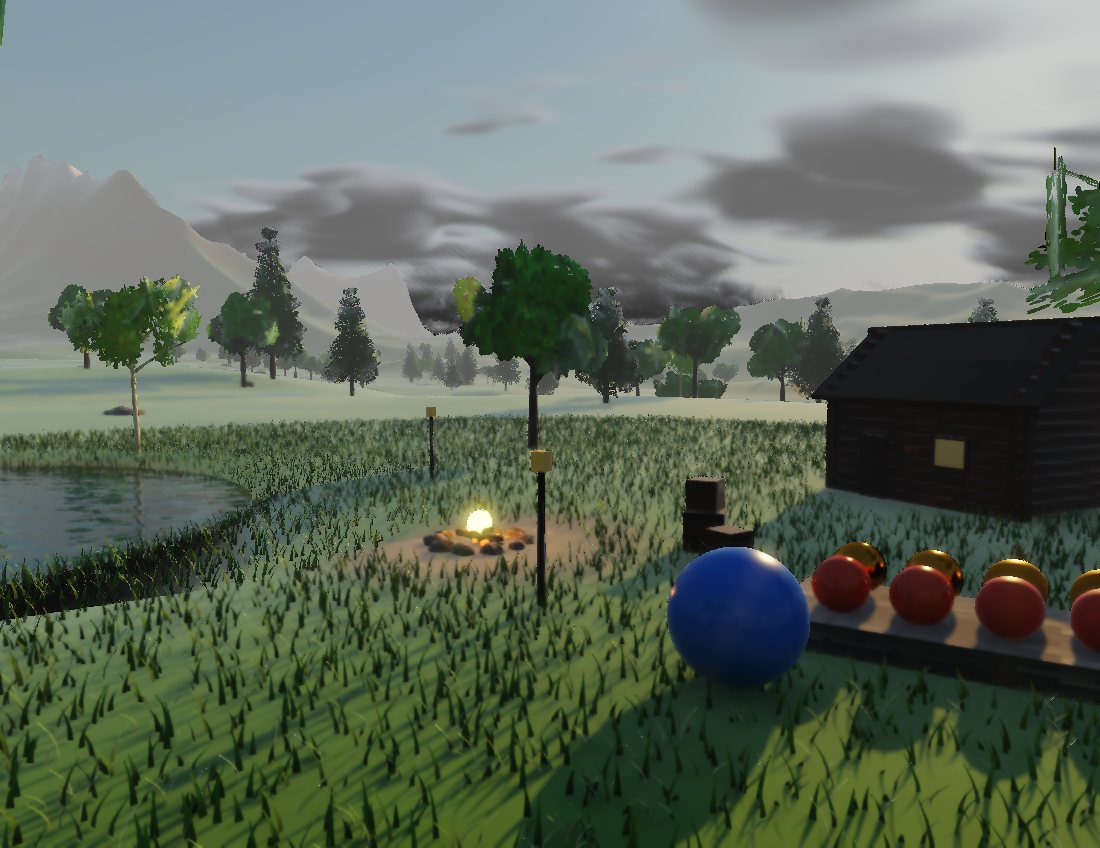
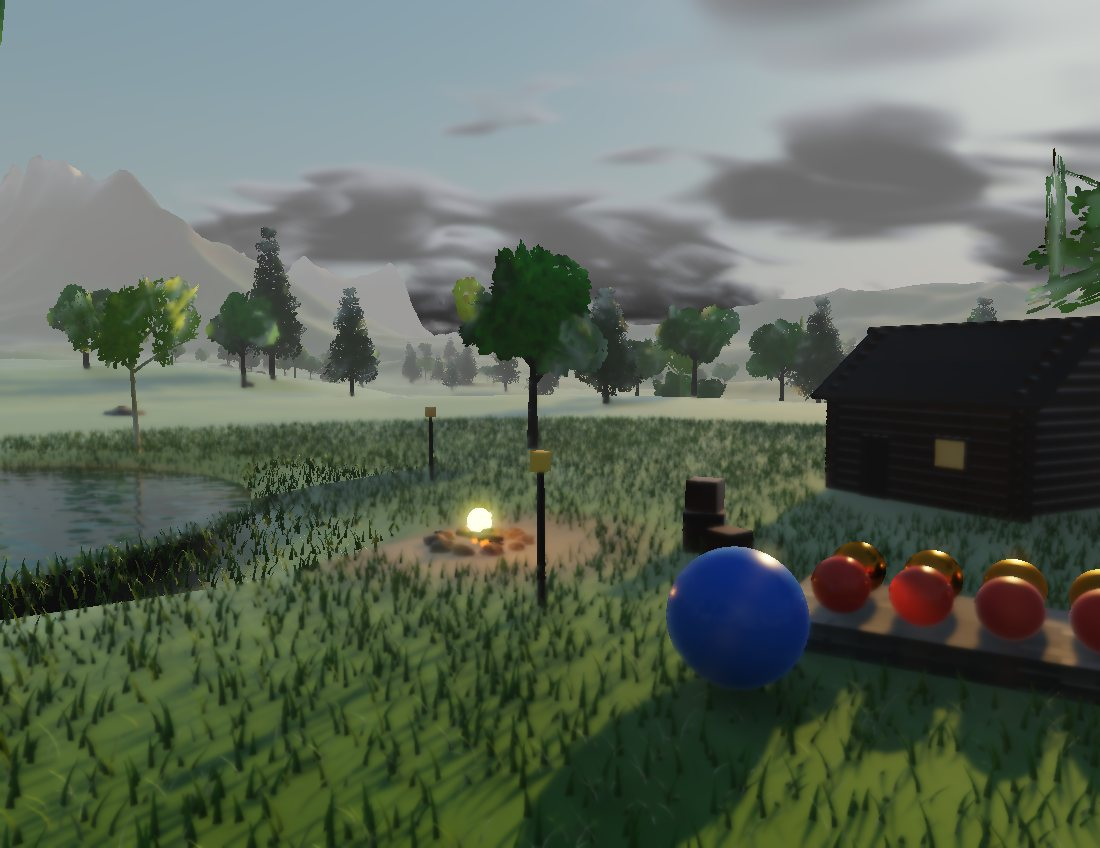
Sky, Sun & Light: temporal accumulation of shadow and bounce terms, steadier anti-aliasing

diff --git a/sandbox/sky-and-light.html b/sandbox/sky-and-light.html
@@ -210,7 +210,7 @@ const v3s = hex => { const c = lin(hex); return `vec3(${c.r.toFixed(4)}, ${c.g.t
 const U = {
   uNodes: { value: nodeTex }, uTris: { value: triTex }, uAttr: { value: attrTex }, uInst: { value: instTex },
   tBark: { value: barkTex }, tBirch: { value: birchTex }, tLeafO: { value: leafO }, tLeafP: { value: leafP }, tLeafB: { value: leafB }, tRock: { value: rockTex }, tWood: { value: woodTex }, tStone: { value: stoneTex }, tGround: { value: groundTex },
-  uTlasRoot: { value: tlasRoot }, uFrame: { value: 0 }, uNSph: { value: NSPH }, uFogD: { value: 0.0015 }, uSunSize: { value: 0.27 * Math.PI / 180 }, uMoonSize: { value: 0.3 * Math.PI / 180 }, uShadowK: { value: 1 }, uGiK: { value: 4 }, uNoiseShift: { value: 0 }, uJitter: { value: new THREE.Vector2() },
+  uTlasRoot: { value: tlasRoot }, uFrame: { value: 0 }, uNSph: { value: NSPH }, uFogD: { value: 0.0015 }, uSunSize: { value: 0.27 * Math.PI / 180 }, uMoonSize: { value: 0.3 * Math.PI / 180 }, uShadowK: { value: 2 }, uGiK: { value: 4 }, uNoiseShift: { value: 0 }, uJitter: { value: new THREE.Vector2() },
   uCamPos: { value: new THREE.Vector3() }, uInvPV: { value: new THREE.Matrix4() }, uSunDir: { value: sunDir }, uSunCol: { value: new THREE.Vector3() }, uMoonDir: { value: moonDir }, uMoonCol: { value: new THREE.Vector3() }, uFogCol: { value: new THREE.Vector3() }, uSkyZen: { value: new THREE.Vector3() }, uSkyHor: { value: new THREE.Vector3() },
   uBetaR: { value: new THREE.Vector3() }, uBetaM: { value: new THREE.Vector3() }, uSunE: { value: 0 }, uSunfade: { value: 1 }, uMieG: { value: 0.8 }, uSunCos: { value: 1 }, uNight: { value: 1 }, uSkyOn: { value: 1 }, uBounceOn: { value: 1 }, uRes: { value: new THREE.Vector2(1, 1) }, uLoRes: { value: new THREE.Vector2(1, 1) },
   uMatA: { value: matA }, uMatB: { value: matB }, uMatC: { value: matC }, uSphA: { value: sphA }, uSphB: { value: sphB }
@@ -408,6 +408,7 @@ const LAKE: vec2f = vec2f(${LAKE.x.toFixed(1)}, ${LAKE.z.toFixed(1)});
 const LAKE_R: f32 = ${LAKE_R.toFixed(1)};
 const FIRE: vec2f = vec2f(${FIRE.x.toFixed(1)}, ${FIRE.z.toFixed(1)});
 fn ign(px: vec2f) -> f32 { return fract(52.9829189 * fract(0.06711056 * px.x + 0.00583715 * px.y) + P.noiseShift); }
+fn ign0(px: vec2f) -> f32 { return fract(52.9829189 * fract(0.06711056 * px.x + 0.00583715 * px.y)); }
 fn h21(p: vec2f) -> f32 { return fract(sin(dot(p, vec2f(127.1, 311.7))) * 43758.5453); }
 fn vn(p: vec2f) -> f32 { let i = floor(p); var f = fract(p); f = f * f * (3.0 - 2.0 * f); return mix(mix(h21(i), h21(i + vec2f(1.0, 0.0)), f.x), mix(h21(i + vec2f(0.0, 1.0)), h21(i + vec2f(1.0, 1.0)), f.x), f.y); }
 fn fb3(p: vec2f) -> f32 { return (0.5 * vn(p) + 0.25 * vn(p * 2.03 + 7.0) + 0.125 * vn(p * 4.1 + 3.0)) / 0.875; }
@@ -511,28 +512,39 @@ const WG_SHADOW = WG_COMMON + `
   let A = textureLoad(gA, fp, 0); if (A.w < 0.0) { textureStore(oV, px, vec4f(1.0, 1.0, 0.0, 0.0)); return; } let p = A.xyz; let n = textureLoad(gB, fp, 0).xyz; let po = p + n * 3e-3; let rot = ign(vec2f(px));
   var sv = 1.0; if (dot(P.sunCol.xyz, P.sunCol.xyz) > 0.0) { sv = 0.0; if (dot(n, P.sunDir.xyz) > -0.1) { for (var k = 0; k < 8; k++) { if (k >= P.shadowK) { break; } let l = coneK(P.sunDir.xyz, P.sunSize, k, P.shadowK, rot); if (!occluded(po, l, 1e9)) { sv += 1.0; } } sv /= f32(P.shadowK); } }
   var mv = 1.0; if (dot(P.moonCol.xyz, P.moonCol.xyz) > 0.0) { mv = 0.0; let l = coneK(P.moonDir.xyz, P.moonSize, 0, 1, rot); if (dot(n, l) > 0.0 && !occluded(po, l, 1e9)) { mv = 1.0; } }
-  textureStore(oV, px, vec4f(sv, mv, 0.0, 1.0)); }`;
+  textureStore(oV, px, vec4f(sv, mv, 0.0, A.w)); }`;
 const WG_GI = WG_COMMON + `
 @group(1) @binding(0) var gA: texture_2d<f32>; @group(1) @binding(1) var gB: texture_2d<f32>; @group(1) @binding(2) var oG: texture_storage_2d<rgba16float, write>;
 @compute @workgroup_size(8, 8) fn main(@builtin(global_invocation_id) gid: vec3u) { let px = vec2i(gid.xy); if (f32(px.x) >= P.giRes.x || f32(px.y) >= P.giRes.y) { return; } let fp = min(px * P.giStride, vec2i(P.res) - 1);
   let A = textureLoad(gA, fp, 0); if (A.w < 0.0) { textureStore(oG, px, vec4f(0.0)); return; } let p = A.xyz; let n = textureLoad(gB, fp, 0).xyz; let po = p + n * 3e-3; let rot = ign(vec2f(px)) + 0.37;
   var E = vec3f(0.0); for (var k = 0; k < 8; k++) { if (k >= P.giK) { break; } let dd = cosK(n, k, P.giK, rot); let H = trace(po, dd, 1e9, false);
     if (!H.hit) { E += skyRad(dd, false) * P.skyOn; } else if (P.bounceOn > 0.5) { let S = hitInfo(po, dd, H); E += bounceShade(S, -dd, H.t + A.w, rot + f32(k) * 0.13); } }
-  textureStore(oG, px, vec4f(E * PI / f32(P.giK), 1.0)); }`;
+  textureStore(oG, px, vec4f(E * PI / f32(P.giK), A.w)); }`;
 const WG_BLUR = WG_COMMON + `
 struct BlurP { dir: vec2f, stride: f32, size: f32, res: vec2f, pad: vec2f };
 @group(1) @binding(0) var gA: texture_2d<f32>; @group(1) @binding(1) var gB: texture_2d<f32>; @group(1) @binding(2) var tIn: texture_2d<f32>; @group(1) @binding(3) var oOut: texture_storage_2d<rgba16float, write>; @group(1) @binding(4) var<uniform> B: BlurP;
 @compute @workgroup_size(8, 8) fn main(@builtin(global_invocation_id) gid: vec3u) { let px = vec2i(gid.xy); if (f32(px.x) >= B.res.x || f32(px.y) >= B.res.y) { return; } let st = i32(B.stride); let full = vec2i(P.res) - 1;
   let A0 = textureLoad(gA, min(px * st, full), 0); let c0 = textureLoad(tIn, px, 0); if (A0.w < 0.0) { textureStore(oOut, px, c0); return; } let n0 = textureLoad(gB, min(px * st, full), 0).xyz; let z0 = A0.w; var sum = vec4f(0.0); var ws = 0.0;
-  for (var i = -3; i <= 3; i++) { let q = px + vec2i(B.dir) * i; if (q.x < 0 || q.y < 0 || f32(q.x) >= B.res.x || f32(q.y) >= B.res.y) { continue; } let A = textureLoad(gA, min(q * st, full), 0); if (A.w < 0.0) { continue; } let n = textureLoad(gB, min(q * st, full), 0).xyz;
+  let rad = select(0, 3, B.size > 0.5); for (var i = -3; i <= 3; i++) { if (abs(i) > rad) { continue; } let q = px + vec2i(B.dir) * i; if (q.x < 0 || q.y < 0 || f32(q.x) >= B.res.x || f32(q.y) >= B.res.y) { continue; } let A = textureLoad(gA, min(q * st, full), 0); if (A.w < 0.0) { continue; } let n = textureLoad(gB, min(q * st, full), 0).xyz;
     let w = exp(-abs(A.w - z0) / (0.03 * z0 + 0.05)) * pow(max(dot(n, n0), 0.0), 12.0) * exp(-f32(i * i) / 5.0); sum += textureLoad(tIn, q, 0) * w; ws += w; }
   textureStore(oOut, px, select(c0, sum / ws, ws > 0.0)); }`;
+// temporal accumulation of a small answer: reproject last frame's, keep it where the surface is the same, blend a little of the new
+const WG_ACC = WG_COMMON + `
+struct AP { stride: f32, blend: f32, res: vec2f };
+@group(1) @binding(0) var gA: texture_2d<f32>; @group(1) @binding(1) var tRaw: texture_2d<f32>; @group(1) @binding(2) var tHist: texture_2d<f32>; @group(1) @binding(3) var oOut: texture_storage_2d<rgba16float, write>; @group(1) @binding(4) var<uniform> AC: AP;
+@compute @workgroup_size(8, 8) fn main(@builtin(global_invocation_id) gid: vec3u) { let px = vec2i(gid.xy); if (f32(px.x) >= AC.res.x || f32(px.y) >= AC.res.y) { return; } let st = i32(AC.stride); let full = vec2i(P.res) - 1;
+  let A = textureLoad(gA, min(px * st, full), 0); let cur = textureLoad(tRaw, px, 0); if (A.w < 0.0) { textureStore(oOut, px, cur); return; }
+  let c4 = P.prevPV * vec4f(A.xyz, 1.0); var out = cur;
+  if (c4.w > 0.0) { let uv = vec2f(c4.x / c4.w * 0.5 + 0.5, 0.5 - c4.y / c4.w * 0.5); if (uv.x > 0.0 && uv.x < 1.0 && uv.y > 0.0 && uv.y < 1.0) { let hc = uv * AC.res - 0.5; let h0 = vec2i(floor(hc)); let f = fract(hc); var sum = vec4f(0.0); var ws = 0.0; let lim = vec2i(AC.res) - 1;
+      for (var j = 0; j < 4; j++) { let q = clamp(h0 + vec2i(j & 1, j >> 1), vec2i(0), lim); let h = textureLoad(tHist, q, 0); if (h.a < 0.0 || abs(h.a - A.w) > 0.05 * A.w + 0.15) { continue; } let w = select(select(select(f.x * f.y, (1.0 - f.x) * f.y, j == 2), f.x * (1.0 - f.y), j == 1), (1.0 - f.x) * (1.0 - f.y), j == 0); sum += h * w; ws += w; }
+      if (ws > 0.3) { let hist = sum / ws; out = vec4f(mix(hist.rgb, cur.rgb, AC.blend), cur.a); } } }
+  textureStore(oOut, px, out); }`;
 const WG_REFL = WG_COMMON + `
 @group(1) @binding(0) var gA: texture_2d<f32>; @group(1) @binding(1) var gB: texture_2d<f32>; @group(1) @binding(2) var oR: texture_storage_2d<rgba16float, write>;
 @compute @workgroup_size(8, 8) fn main(@builtin(global_invocation_id) gid: vec3u) { let px = vec2i(gid.xy); if (f32(px.x) >= P.res.x || f32(px.y) >= P.res.y) { return; }
   let A = textureLoad(gA, px, 0); let Bv = textureLoad(gB, px, 0); if (A.w < 0.0 || Bv.w >= 0.45) { textureStore(oR, px, vec4f(0.0)); return; } let p = A.xyz; let n = Bv.xyz; let v = normalize(P.camPos.xyz - p); let r = reflect(-v, n); if (dot(r, n) <= 0.0) { textureStore(oR, px, vec4f(0.0)); return; }
   let po = p + n * 3e-3; let H = trace(po, r, 1e9, false); var col: vec3f;
-  if (!H.hit) { col = skyRad(r, true); } else { let S = hitInfo(po, r, H); col = bounceShade(S, -r, H.t + A.w, ign(vec2f(px))); col = mix(P.fogCol.xyz, col, exp(-P.fogD * H.t)); }
+  if (!H.hit) { col = skyRad(r, true); } else { let S = hitInfo(po, r, H); col = bounceShade(S, -r, H.t + A.w, ign0(vec2f(px))); col = mix(P.fogCol.xyz, col, exp(-P.fogD * H.t)); }
   textureStore(oR, px, vec4f(col, 1.0)); }`;
 const WG_COMP = WG_COMMON + `
 @group(1) @binding(0) var gA: texture_2d<f32>; @group(1) @binding(1) var gB: texture_2d<f32>; @group(1) @binding(2) var gC: texture_2d<f32>; @group(1) @binding(3) var gD: texture_2d<f32>; @group(1) @binding(4) var tV: texture_2d<f32>; @group(1) @binding(5) var tG: texture_2d<f32>; @group(1) @binding(6) var tR: texture_2d<f32>; @group(1) @binding(7) var oCur: texture_storage_2d<rgba16float, write>;
@@ -551,15 +563,15 @@ fn upsampleG(px: vec2i, A: vec4f, n: vec3f) -> vec4f { let st = P.giStride; let 
     col = emis;
     let ndl = max(dot(n, P.sunDir.xyz), 0.0); col += P.sunCol.xyz * sunVis * ndl * (diffuse + specBRDF(n, v, P.sunDir.xyz, rough, F0));
     let ndm = max(dot(n, P.moonDir.xyz), 0.0); col += P.moonCol.xyz * moonVis * ndm * diffuse;
-    col += sphereLights(p + n * 3e-3, n, v, diffuse, F0, rough, ign(vec2f(px)), 1, 24.0);
+    col += sphereLights(p + n * 3e-3, n, v, diffuse, F0, rough, ign0(vec2f(px)), 1, 24.0);
     col += diffuse * E;
     let R = textureLoad(tR, px, 0); let open = clamp(dot(E, vec3f(0.33)) / max(dot(skyAmb(n), vec3f(0.33)), 1e-3), 0.0, 1.0);
     let specAmb = F * mix(P.skyHor.xyz, P.skyZen.xyz, reflect(-v, n).y * 0.5 + 0.5) * P.skyOn * open;
     let sharp = select(0.0, 1.0 - smoothstep(0.12, 0.45, rough), R.a > 0.5); col += mix(specAmb, F * R.rgb, sharp) * select(vec3f(1.0), alb, metal > 0.5);
     if (P.matB[i32(D.w)].w == 3.0) { // water: what the mirror does not take goes down into it, and comes back tinted by how far it went
       let Fw = 0.02 + 0.98 * pow(1.0 - ndv, 5.0); let rd = refract(-v, n, 1.0 / 1.33); var under = vec3f(0.01, 0.06, 0.08);
-      if (dot(rd, rd) > 0.0) { let H = trace(p - n * 3e-3, rd, 40.0, false); if (H.hit) { let S = hitInfo(p - n * 3e-3, rd, H); let bottom = bounceShade(S, -rd, H.t + A.w, ign(vec2f(px))); let ab = exp(-vec3f(0.55, 0.22, 0.14) * H.t * 1.6); under = bottom * ab + vec3f(0.02, 0.10, 0.12) * (1.0 - ab) * (P.skyZen.xyz * 3.0 + P.sunCol.xyz * 0.02); } }
-      col = emis + sunVis * ndl * P.sunCol.xyz * specBRDF(n, v, P.sunDir.xyz, rough, vec3f(0.02)) + sphereLights(p + n * 3e-3, n, v, vec3f(0.0), vec3f(0.02), rough, ign(vec2f(px)), 1, 24.0) + Fw * select(specAmb, R.rgb, R.a > 0.5) + (1.0 - Fw) * under; }
+      if (dot(rd, rd) > 0.0) { let H = trace(p - n * 3e-3, rd, 40.0, false); if (H.hit) { let S = hitInfo(p - n * 3e-3, rd, H); let bottom = bounceShade(S, -rd, H.t + A.w, ign0(vec2f(px))); let ab = exp(-vec3f(0.55, 0.22, 0.14) * H.t * 1.6); under = bottom * ab + vec3f(0.02, 0.10, 0.12) * (1.0 - ab) * (P.skyZen.xyz * 3.0 + P.sunCol.xyz * 0.02); } }
+      col = emis + sunVis * ndl * P.sunCol.xyz * specBRDF(n, v, P.sunDir.xyz, rough, vec3f(0.02)) + sphereLights(p + n * 3e-3, n, v, vec3f(0.0), vec3f(0.02), rough, ign0(vec2f(px)), 1, 24.0) + Fw * select(specAmb, R.rgb, R.a > 0.5) + (1.0 - Fw) * under; }
     // haze, and a mist that pools low in the valley
     let hc = max(P.camPos.y, 0.0); let hp = max(p.y, 0.0); let dh = hp - hc; let mistInt = select(exp(-hc / 6.0) * (1.0 - exp(-dh / 6.0)) / (dh / 6.0), exp(-hc / 6.0), abs(dh) < 0.01);
     col = mix(P.fogCol.xyz, col, exp(-(P.fogD + P.mist * mistInt) * A.w));
@@ -573,9 +585,9 @@ const WG_TAA = WG_COMMON + `
   var mn = cur.rgb; var mx = cur.rgb; for (var j = -1; j <= 1; j++) { for (var i = -1; i <= 1; i++) { let c = textureLoad(tCur, clamp(px + vec2i(i, j), vec2i(0), full), 0).rgb; mn = min(mn, c); mx = max(mx, c); } }
   let wp = select(A.xyz, P.camPos.xyz + A.xyz * 20000.0, A.w < 0.0); let c4 = P.prevPV * vec4f(wp, 1.0); var hist = cur; var ok = false;
   if (c4.w > 0.0) { let uv = vec2f(c4.x / c4.w * 0.5 + 0.5, 0.5 - c4.y / c4.w * 0.5); if (uv.x > 0.0 && uv.x < 1.0 && uv.y > 0.0 && uv.y < 1.0) { let hc = uv * P.res - 0.5; let h0 = vec2i(floor(hc)); let f = fract(hc); var sum = vec4f(0.0);
-      for (var j = 0; j < 4; j++) { let q = clamp(h0 + vec2i(j & 1, j >> 1), vec2i(0), full); let w = select(select(select(f.x * f.y, (1.0 - f.x) * f.y, j == 2), f.x * (1.0 - f.y), j == 1), (1.0 - f.x) * (1.0 - f.y), j == 0); sum += textureLoad(tHist, q, 0) * w; }
-      hist = sum; ok = (A.w < 0.0 && hist.a < 0.0) || (A.w > 0.0 && abs(hist.a - A.w) < 0.06 * A.w + 0.1); } }
-  var col = cur.rgb; if (ok) { let h = clamp(hist.rgb, mn - 0.02, mx + 0.02); col = mix(h, cur.rgb, P.blend); }
+      var ws = 0.0; for (var j = 0; j < 4; j++) { let q = clamp(h0 + vec2i(j & 1, j >> 1), vec2i(0), full); let h = textureLoad(tHist, q, 0); let same = (A.w < 0.0 && h.a < 0.0) || (A.w > 0.0 && h.a > 0.0 && abs(h.a - A.w) < 0.12 * A.w + 0.2); if (!same) { continue; } let w = select(select(select(f.x * f.y, (1.0 - f.x) * f.y, j == 2), f.x * (1.0 - f.y), j == 1), (1.0 - f.x) * (1.0 - f.y), j == 0); sum += h * w; ws += w; }
+      if (ws > 0.05) { hist = sum / ws; ok = true; } } }
+  var col = cur.rgb; if (ok) { let pad = (mx - mn) * 0.5 + 0.03; let h = clamp(hist.rgb, mn - pad, mx + pad); col = mix(h, cur.rgb, P.blend); }
   textureStore(oAcc, px, vec4f(col, cur.a)); }`;
 const WG_BRIGHT = WG_COMMON + `
 @group(1) @binding(0) var tIn: texture_2d<f32>; @group(1) @binding(1) var oOut: texture_storage_2d<rgba16float, write>;
@@ -614,23 +626,26 @@ async function startWebGPU() {
   const T = (b) => ({ binding: b, visibility: GPUShaderStage.COMPUTE, texture: { sampleType: 'unfilterable-float' } }), W = (b, fmt) => ({ binding: b, visibility: GPUShaderStage.COMPUTE, storageTexture: { access: 'write-only', format: fmt } });
   const layouts = { gbuf: device.createBindGroupLayout({ entries: [W(0, 'rgba32float'), W(1, 'rgba32float'), W(2, 'rgba32float'), W(3, 'rgba32float')] }), shadow: device.createBindGroupLayout({ entries: [T(0), T(1), W(2, 'rgba16float')] }), gi: device.createBindGroupLayout({ entries: [T(0), T(1), W(2, 'rgba16float')] }),
     blur: device.createBindGroupLayout({ entries: [T(0), T(1), T(2), W(3, 'rgba16float'), { binding: 4, visibility: GPUShaderStage.COMPUTE, buffer: { type: 'uniform' } }] }), refl: device.createBindGroupLayout({ entries: [T(0), T(1), W(2, 'rgba16float')] }), comp: device.createBindGroupLayout({ entries: [T(0), T(1), T(2), T(3), T(4), T(5), T(6), W(7, 'rgba16float')] }),
-    taa: device.createBindGroupLayout({ entries: [T(0), T(1), T(2), W(3, 'rgba16float')] }), bright: device.createBindGroupLayout({ entries: [T(0), W(1, 'rgba16float')] }), gauss: device.createBindGroupLayout({ entries: [T(0), W(1, 'rgba16float'), { binding: 2, visibility: GPUShaderStage.COMPUTE, buffer: { type: 'uniform' } }] }) };
+    taa: device.createBindGroupLayout({ entries: [T(0), T(1), T(2), W(3, 'rgba16float')] }), acc: device.createBindGroupLayout({ entries: [T(0), T(1), T(2), W(3, 'rgba16float'), { binding: 4, visibility: GPUShaderStage.COMPUTE, buffer: { type: 'uniform' } }] }), bright: device.createBindGroupLayout({ entries: [T(0), W(1, 'rgba16float')] }), gauss: device.createBindGroupLayout({ entries: [T(0), W(1, 'rgba16float'), { binding: 2, visibility: GPUShaderStage.COMPUTE, buffer: { type: 'uniform' } }] }) };
   const pipe = (code, l1) => device.createComputePipeline({ layout: device.createPipelineLayout({ bindGroupLayouts: [g0Layout, l1] }), compute: { module: device.createShaderModule({ code }), entryPoint: 'main' } });
-  const pipes = { gbuf: pipe(WG_GBUF, layouts.gbuf), shadow: pipe(WG_SHADOW, layouts.shadow), gi: pipe(WG_GI, layouts.gi), blur: pipe(WG_BLUR, layouts.blur), refl: pipe(WG_REFL, layouts.refl), comp: pipe(WG_COMP, layouts.comp), taa: pipe(WG_TAA, layouts.taa), bright: pipe(WG_BRIGHT, layouts.bright), gauss: pipe(WG_GAUSS, layouts.gauss) };
+  const pipes = { gbuf: pipe(WG_GBUF, layouts.gbuf), shadow: pipe(WG_SHADOW, layouts.shadow), gi: pipe(WG_GI, layouts.gi), blur: pipe(WG_BLUR, layouts.blur), refl: pipe(WG_REFL, layouts.refl), comp: pipe(WG_COMP, layouts.comp), taa: pipe(WG_TAA, layouts.taa), acc: pipe(WG_ACC, layouts.acc), bright: pipe(WG_BRIGHT, layouts.bright), gauss: pipe(WG_GAUSS, layouts.gauss) };
   const dispLayout = device.createBindGroupLayout({ entries: [{ binding: 0, visibility: GPUShaderStage.FRAGMENT, texture: {} }, { binding: 1, visibility: GPUShaderStage.FRAGMENT, sampler: {} }, { binding: 2, visibility: GPUShaderStage.FRAGMENT, buffer: { type: 'uniform' } }, { binding: 3, visibility: GPUShaderStage.FRAGMENT, texture: {} }] });
   const dispMod = device.createShaderModule({ code: WG_DISP }); const dispPipe = device.createRenderPipeline({ layout: device.createPipelineLayout({ bindGroupLayouts: [dispLayout] }), vertex: { module: dispMod, entryPoint: 'vs' }, fragment: { module: dispMod, entryPoint: 'fs', targets: [{ format }] }, primitive: { topology: 'triangle-list' } });
   const bDisp = device.createBuffer({ size: 32, usage: GPUBufferUsage.UNIFORM | GPUBufferUsage.COPY_DST }); const dispSamp = device.createSampler({ magFilter: 'linear', minFilter: 'linear' });
-  const blurBufs = [0, 1, 2, 3].map(() => device.createBuffer({ size: 32, usage: GPUBufferUsage.UNIFORM | GPUBufferUsage.COPY_DST })); const gaussBufs = [0, 1].map(() => device.createBuffer({ size: 16, usage: GPUBufferUsage.UNIFORM | GPUBufferUsage.COPY_DST }));
+  const blurBufs = [0, 1, 2, 3].map(() => device.createBuffer({ size: 32, usage: GPUBufferUsage.UNIFORM | GPUBufferUsage.COPY_DST })); const gaussBufs = [0, 1].map(() => device.createBuffer({ size: 16, usage: GPUBufferUsage.UNIFORM | GPUBufferUsage.COPY_DST })); const accBufs = [0, 1].map(() => device.createBuffer({ size: 16, usage: GPUBufferUsage.UNIFORM | GPUBufferUsage.COPY_DST }));
   const st = { w: 0, h: 0, tex: null, groups: null, ss: 2, gs: 4 };
   const mkTex = (w, h, fmt) => device.createTexture({ size: [w, h], format: fmt, usage: GPUTextureUsage.STORAGE_BINDING | GPUTextureUsage.TEXTURE_BINDING });
-  function ensure(w, h, ss, gs) { if (st.w === w && st.h === h && st.ss === ss && st.gs === gs) return; if (st.tex) for (const k in st.tex) st.tex[k].destroy(); st.ss = ss; st.gs = gs; const lw = Math.max(2, Math.ceil(w / ss)), lh = Math.max(2, Math.ceil(h / ss)), qw = Math.max(2, Math.ceil(w / gs)), qh = Math.max(2, Math.ceil(h / gs)), bw = Math.max(2, Math.ceil(w / 4)), bh = Math.max(2, Math.ceil(h / 4));
-    const t = st.tex = { gA: mkTex(w, h, 'rgba32float'), gB: mkTex(w, h, 'rgba32float'), gC: mkTex(w, h, 'rgba32float'), gD: mkTex(w, h, 'rgba32float'), sV: mkTex(lw, lh, 'rgba16float'), sV2: mkTex(lw, lh, 'rgba16float'), gi: mkTex(qw, qh, 'rgba16float'), gi2: mkTex(qw, qh, 'rgba16float'), refl: mkTex(w, h, 'rgba16float'), cur: mkTex(w, h, 'rgba16float'), acc0: mkTex(w, h, 'rgba16float'), acc1: mkTex(w, h, 'rgba16float'), bl0: mkTex(bw, bh, 'rgba16float'), bl1: mkTex(bw, bh, 'rgba16float') };
+  function ensure(w, h, ss, gs) { if (st.w === w && st.h === h && st.ss === ss && st.gs === gs && st.dn === denoise) return; st.dn = denoise; if (st.tex) for (const k in st.tex) st.tex[k].destroy(); st.ss = ss; st.gs = gs; const lw = Math.max(2, Math.ceil(w / ss)), lh = Math.max(2, Math.ceil(h / ss)), qw = Math.max(2, Math.ceil(w / gs)), qh = Math.max(2, Math.ceil(h / gs)), bw = Math.max(2, Math.ceil(w / 4)), bh = Math.max(2, Math.ceil(h / 4));
+    const t = st.tex = { gA: mkTex(w, h, 'rgba32float'), gB: mkTex(w, h, 'rgba32float'), gC: mkTex(w, h, 'rgba32float'), gD: mkTex(w, h, 'rgba32float'), sV: mkTex(lw, lh, 'rgba16float'), sV2: mkTex(lw, lh, 'rgba16float'), sRaw: mkTex(lw, lh, 'rgba16float'), sH0: mkTex(lw, lh, 'rgba16float'), sH1: mkTex(lw, lh, 'rgba16float'), gi: mkTex(qw, qh, 'rgba16float'), gi2: mkTex(qw, qh, 'rgba16float'), gRaw: mkTex(qw, qh, 'rgba16float'), gH0: mkTex(qw, qh, 'rgba16float'), gH1: mkTex(qw, qh, 'rgba16float'), refl: mkTex(w, h, 'rgba16float'), cur: mkTex(w, h, 'rgba16float'), acc0: mkTex(w, h, 'rgba16float'), acc1: mkTex(w, h, 'rgba16float'), bl0: mkTex(bw, bh, 'rgba16float'), bl1: mkTex(bw, bh, 'rgba16float') };
     const v = {}; for (const k in t) v[k] = t[k].createView(); const E = (b, r) => ({ binding: b, resource: r });
     const bg = (layout, list) => device.createBindGroup({ layout, entries: list.map((r, i) => E(i, r)) });
-    const blurP = (i, dir, stride, rw, rh) => { device.queue.writeBuffer(blurBufs[i], 0, new Float32Array([dir[0], dir[1], stride, 0, rw, rh, 0, 0])); return blurBufs[i]; };
-    st.groups = { gbuf: bg(layouts.gbuf, [v.gA, v.gB, v.gC, v.gD]), shadow: bg(layouts.shadow, [v.gA, v.gB, v.sV]), gi: bg(layouts.gi, [v.gA, v.gB, v.gi]),
-      blurS1: device.createBindGroup({ layout: layouts.blur, entries: [E(0, v.gA), E(1, v.gB), E(2, v.sV), E(3, v.sV2), E(4, { buffer: blurP(0, [1, 0], ss, lw, lh) })] }), blurS2: device.createBindGroup({ layout: layouts.blur, entries: [E(0, v.gA), E(1, v.gB), E(2, v.sV2), E(3, v.sV), E(4, { buffer: blurP(1, [0, 1], ss, lw, lh) })] }),
-      blurG1: device.createBindGroup({ layout: layouts.blur, entries: [E(0, v.gA), E(1, v.gB), E(2, v.gi), E(3, v.gi2), E(4, { buffer: blurP(2, [1, 0], gs, qw, qh) })] }), blurG2: device.createBindGroup({ layout: layouts.blur, entries: [E(0, v.gA), E(1, v.gB), E(2, v.gi2), E(3, v.gi), E(4, { buffer: blurP(3, [0, 1], gs, qw, qh) })] }),
+    const blurP = (i, dir, stride, rw, rh) => { device.queue.writeBuffer(blurBufs[i], 0, new Float32Array([dir[0], dir[1], stride, denoise ? 1 : 0, rw, rh, 0, 0])); return blurBufs[i]; };
+    device.queue.writeBuffer(accBufs[0], 0, new Float32Array([ss, 0.05, lw, lh])); device.queue.writeBuffer(accBufs[1], 0, new Float32Array([gs, 0.06, qw, qh]));
+    st.groups = { gbuf: bg(layouts.gbuf, [v.gA, v.gB, v.gC, v.gD]), shadow: bg(layouts.shadow, [v.gA, v.gB, v.sRaw]), gi: bg(layouts.gi, [v.gA, v.gB, v.gRaw]),
+      accS: [device.createBindGroup({ layout: layouts.acc, entries: [E(0, v.gA), E(1, v.sRaw), E(2, v.sH1), E(3, v.sH0), E(4, { buffer: accBufs[0] })] }), device.createBindGroup({ layout: layouts.acc, entries: [E(0, v.gA), E(1, v.sRaw), E(2, v.sH0), E(3, v.sH1), E(4, { buffer: accBufs[0] })] })],
+      accG: [device.createBindGroup({ layout: layouts.acc, entries: [E(0, v.gA), E(1, v.gRaw), E(2, v.gH1), E(3, v.gH0), E(4, { buffer: accBufs[1] })] }), device.createBindGroup({ layout: layouts.acc, entries: [E(0, v.gA), E(1, v.gRaw), E(2, v.gH0), E(3, v.gH1), E(4, { buffer: accBufs[1] })] })],
+      blurS1: [0, 1].map(i => device.createBindGroup({ layout: layouts.blur, entries: [E(0, v.gA), E(1, v.gB), E(2, i ? v.sH1 : v.sH0), E(3, v.sV2), E(4, { buffer: blurP(0, [1, 0], ss, lw, lh) })] })), blurS2: device.createBindGroup({ layout: layouts.blur, entries: [E(0, v.gA), E(1, v.gB), E(2, v.sV2), E(3, v.sV), E(4, { buffer: blurP(1, [0, 1], ss, lw, lh) })] }),
+      blurG1: [0, 1].map(i => device.createBindGroup({ layout: layouts.blur, entries: [E(0, v.gA), E(1, v.gB), E(2, i ? v.gH1 : v.gH0), E(3, v.gi2), E(4, { buffer: blurP(2, [1, 0], gs, qw, qh) })] })), blurG2: device.createBindGroup({ layout: layouts.blur, entries: [E(0, v.gA), E(1, v.gB), E(2, v.gi2), E(3, v.gi), E(4, { buffer: blurP(3, [0, 1], gs, qw, qh) })] }),
       refl: bg(layouts.refl, [v.gA, v.gB, v.refl]), comp: bg(layouts.comp, [v.gA, v.gB, v.gC, v.gD, v.sV, v.gi, v.refl, v.cur]),
       taa: [bg(layouts.taa, [v.gA, v.cur, v.acc1, v.acc0]), bg(layouts.taa, [v.gA, v.cur, v.acc0, v.acc1])], bright: [bg(layouts.bright, [v.acc0, v.bl0]), bg(layouts.bright, [v.acc1, v.bl0])],
       gauss1: device.createBindGroup({ layout: layouts.gauss, entries: [E(0, v.bl0), E(1, v.bl1), E(2, { buffer: (device.queue.writeBuffer(gaussBufs[0], 0, new Float32Array([1, 0, bw, bh])), gaussBufs[0]) })] }), gauss2: device.createBindGroup({ layout: layouts.gauss, entries: [E(0, v.bl1), E(1, v.bl0), E(2, { buffer: (device.queue.writeBuffer(gaussBufs[1], 0, new Float32Array([0, 1, bw, bh])), gaussBufs[1]) })] }),
@@ -647,8 +662,8 @@ async function startWebGPU() {
     ensure(w, h, ss, gs); fillParams(w, h, blend, view, jitter); const sc = sunDir.clone().multiplyScalar(1000).add(camera.position).project(camera); device.queue.writeBuffer(bDisp, 0, new Float32Array([dispU.uExposure.value, dispU.uCurve.value, fx.bloom, fx.shafts, sc.x * 0.5 + 0.5, 0.5 - sc.y * 0.5, sc.z < 1 && sunDir.y > 0.02 ? 1 : 0, 0]));
     const cw = Math.max(1, Math.round(sb.stage.clientWidth * Math.min(devicePixelRatio || 1, 2))), ch = Math.max(1, Math.round(sb.stage.clientHeight * Math.min(devicePixelRatio || 1, 2))); if (canvas.width !== cw || canvas.height !== ch) { canvas.width = cw; canvas.height = ch; }
     const enc = device.createCommandEncoder(); const G = st.groups; const run = (p, g, x, y) => { const c = enc.beginComputePass(); c.setPipeline(p); c.setBindGroup(0, g0); c.setBindGroup(1, g); c.dispatchWorkgroups(Math.ceil(x / 8), Math.ceil(y / 8)); c.end(); };
-    run(pipes.gbuf, G.gbuf, w, h); run(pipes.shadow, G.shadow, st.lw, st.lh); run(pipes.gi, G.gi, st.qw, st.qh);
-    if (doBlur) { run(pipes.blur, G.blurS1, st.lw, st.lh); run(pipes.blur, G.blurS2, st.lw, st.lh); run(pipes.blur, G.blurG1, st.qw, st.qh); run(pipes.blur, G.blurG2, st.qw, st.qh); }
+    run(pipes.gbuf, G.gbuf, w, h); run(pipes.shadow, G.shadow, st.lw, st.lh); run(pipes.acc, G.accS[cur], st.lw, st.lh); run(pipes.gi, G.gi, st.qw, st.qh); run(pipes.acc, G.accG[cur], st.qw, st.qh);
+    run(pipes.blur, G.blurS1[cur], st.lw, st.lh); run(pipes.blur, G.blurS2, st.lw, st.lh); run(pipes.blur, G.blurG1[cur], st.qw, st.qh); run(pipes.blur, G.blurG2, st.qw, st.qh);
     run(pipes.refl, G.refl, w, h); run(pipes.comp, G.comp, w, h); run(pipes.taa, G.taa[cur], w, h); run(pipes.bright, G.bright[cur], st.bw, st.bh); run(pipes.gauss, G.gauss1, st.bw, st.bh); run(pipes.gauss, G.gauss2, st.bw, st.bh);
     const rp = enc.beginRenderPass({ colorAttachments: [{ view: ctx.getCurrentTexture().createView(), loadOp: 'clear', storeOp: 'store', clearValue: { r: 0, g: 0, b: 0, a: 1 } }] }); rp.setPipeline(dispPipe); rp.setBindGroup(0, G.disp[cur]); rp.draw(3); rp.end();
     device.queue.submit([enc.finish()]); prevPV.copy(camera.projectionMatrix).multiply(camera.matrixWorldInverse); cur = 1 - cur; }
@@ -717,8 +732,8 @@ s5.slider('Sun shafts', { min: 0, max: 1, step: 0.02, value: 0.35, fmt: v => (+v
 
 const s6 = sb.panel.section('06 · The renderer', 'This is how a game ray traces: one ray per pixel finds the surface, a few rays per pixel ask the sun, the moon, the fire and the sky, one mirror ray serves anything smooth, and the soft light is worked out at half size and smoothed without crossing edges. Nothing is random, so every frame is complete. Holding still only adds anti-aliasing.');
 s6.segment('Show', [{ value: 0, label: 'the picture' }, { value: 1, label: 'the sun\'s shadow rays' }, { value: 2, label: 'sky and bounce light' }, { value: 3, label: 'the mirror rays' }], 0, v => { compMat.uniforms.uView.value = +v; dirty(); });
-s6.segment('Quality', [{ value: 'balanced', label: 'balanced' }, { value: 'high', label: 'high' }, { value: 'ultra', label: 'ultra' }], 'high', v => { quality = v; if (v === 'ultra') { U.uShadowK.value = 2; U.uGiK.value = 6; } dirty(); });
-s6.segment('Shadow rays per pixel, toward the sun', [{ value: 1, label: '1' }, { value: 2, label: '2' }, { value: 4, label: '4' }, { value: 8, label: '8' }], 1, v => { U.uShadowK.value = +v; dirty(); });
+s6.segment('Quality', [{ value: 'balanced', label: 'balanced' }, { value: 'high', label: 'high' }, { value: 'ultra', label: 'ultra' }], 'high', v => { quality = v; if (v === 'ultra') { U.uShadowK.value = 4; U.uGiK.value = 6; } dirty(); });
+s6.segment('Shadow rays per pixel, toward the sun', [{ value: 1, label: '1' }, { value: 2, label: '2' }, { value: 4, label: '4' }, { value: 8, label: '8' }], 2, v => { U.uShadowK.value = +v; dirty(); });
 s6.segment('Rays per pixel for sky and bounce light', [{ value: 2, label: '2' }, { value: 4, label: '4' }, { value: 6, label: '6' }, { value: 8, label: '8' }], 4, v => { U.uGiK.value = +v; dirty(); });
 s6.toggle('smooth the shadow and bounce answers (denoise)', true, v => { denoise = v; dirty(); });
 s6.segment('Picture size while still', [{ value: 1, label: 'full' }, { value: 0.75, label: 'three quarters' }, { value: 0.5, label: 'half' }], 1, v => { stillScale = +v; });
@@ -740,7 +755,7 @@ let msAvg = 0, lastNow = 0, frame = 0; const invPV = new THREE.Matrix4();
 placeSun();
 sb.onFrame((dt) => {
   if (running) { runT += dt; if (runT > 2) { runT = 0; hour += 0.35; if (hour > 21) hour = 4.5; hourS.set(hour, false); placeSun(); } }
-  fx.time += dt; if (fireOn) { const fl = 0.8 + 0.4 * vnoise(fx.time * 9, 3) + 0.15 * vnoise(fx.time * 23, 8); matB[M.FLAME * 4 + 1] = 45 * fl; matB[M.EMBER * 4 + 1] = 6 * (0.7 + 0.6 * vnoise(fx.time * 5, 1)); const fs = spheres[NSPH - 14]; fs.c.set(FIRE.x + (vnoise(fx.time * 6, 2) - 0.5) * 0.12, terrainH(FIRE.x, FIRE.z) + 0.55 + (vnoise(fx.time * 7, 4) - 0.5) * 0.14, FIRE.z + (vnoise(fx.time * 6, 9) - 0.5) * 0.12); fs.r = 0.26 + 0.08 * vnoise(fx.time * 11, 6); writeSpheres(); }
+  fx.time += dt; if (fireOn) { const fl = 0.92 + 0.12 * vnoise(fx.time * 6, 3) + 0.05 * vnoise(fx.time * 17, 8); matB[M.FLAME * 4 + 1] = 45 * fl; matB[M.EMBER * 4 + 1] = 6 * (0.85 + 0.3 * vnoise(fx.time * 4, 1)); const fs = spheres[NSPH - 14]; fs.c.set(FIRE.x + (vnoise(fx.time * 5, 2) - 0.5) * 0.06, terrainH(FIRE.x, FIRE.z) + 0.55 + (vnoise(fx.time * 6, 4) - 0.5) * 0.08, FIRE.z + (vnoise(fx.time * 5, 9) - 0.5) * 0.06); fs.r = 0.28 + 0.04 * vnoise(fx.time * 9, 6); writeSpheres(); }
   const now = performance.now(); if (lastNow) msAvg += ((now - lastNow) - msAvg) * 0.08; lastNow = now; msRead(msAvg.toFixed(1) + ' ms');
   expRead(exposure.toFixed(2) + (autoExp ? ', automatic' : ', by hand')); accRead(!accumulate ? 'off' : gpu ? 'temporal, reprojected' : Math.min(accN, 32) + (accN === 1 ? ' frame' : ' frames') + (rtScale < 1 ? ', small picture' : ''));
   sb.hud('mode', (hour < 5 || hour > 20 ? 'night: dark except where the fire and the lanterns reach, and a little moon' : hour < 8 || hour > 17.5 ? 'a low sun through a lot of air: orange light, long soft shadows' : 'high sun: white light, blue sky, hills fading into blue haze') + ' · one ray per pixel finds the surface, a few more light it');
@@ -751,10 +766,10 @@ sb.onRender((scene, camera, renderer) => {
     if (!lastCam.equals(camera.matrixWorld)) { lastCam.copy(camera.matrixWorld); lastMove = performance.now(); dirty(); }
     const moving = performance.now() - lastMove < 300; const scale = moving ? moveScale : stillScale; if (scale !== rtScale) { rtScale = scale; dirty(); }
     const w = Math.max(2, Math.round(sb.stage.clientWidth * scale)), h = Math.max(2, Math.round(sb.stage.clientHeight * scale));
-    const k = frame % 16; const jit = accumulate ? new THREE.Vector2((k % 4) / 4 - 0.375, Math.floor(k / 4) / 4 - 0.375) : new THREE.Vector2(); U.uNoiseShift.value = accumulate ? frame * 0.618034 : 0;
+    const hal = (i, b) => { let f = 1, r = 0; while (i > 0) { f /= b; r += f * (i % b); i = Math.floor(i / b); } return r; }; const k = frame % 8 + 1; const jit = accumulate ? new THREE.Vector2((hal(k, 2) - 0.5) * 0.7, (hal(k, 3) - 0.5) * 0.7) : new THREE.Vector2(); U.uNoiseShift.value = accumulate ? (frame % 16) * 0.618034 : 0;
     U.uInvPV.value.copy(invPV); U.uCamPos.value.copy(camera.position); U.uFrame.value = frame++; accN = accumulate ? Math.min(accN + 1, 32) : 0;
     const ss = quality === 'balanced' ? 2 : 1, gs = quality === 'ultra' ? 2 : 4;
-    gpu.render(w, h, accumulate ? 0.1 : 1, compMat.uniforms.uView.value, jit, denoise, ss, gs); return;
+    gpu.render(w, h, accumulate ? (moving ? 0.12 : 0.03) : 1, compMat.uniforms.uView.value, jit, denoise, ss, gs); return;
   }
   if (!lastCam.equals(camera.matrixWorld)) { lastCam.copy(camera.matrixWorld); lastMove = performance.now(); dirty(); }
   const moving = performance.now() - lastMove < 300; const scale = moving ? moveScale : stillScale; if (scale !== rtScale) { rtScale = scale; ensureRT(scale); dirty(); } else ensureRT(scale);
